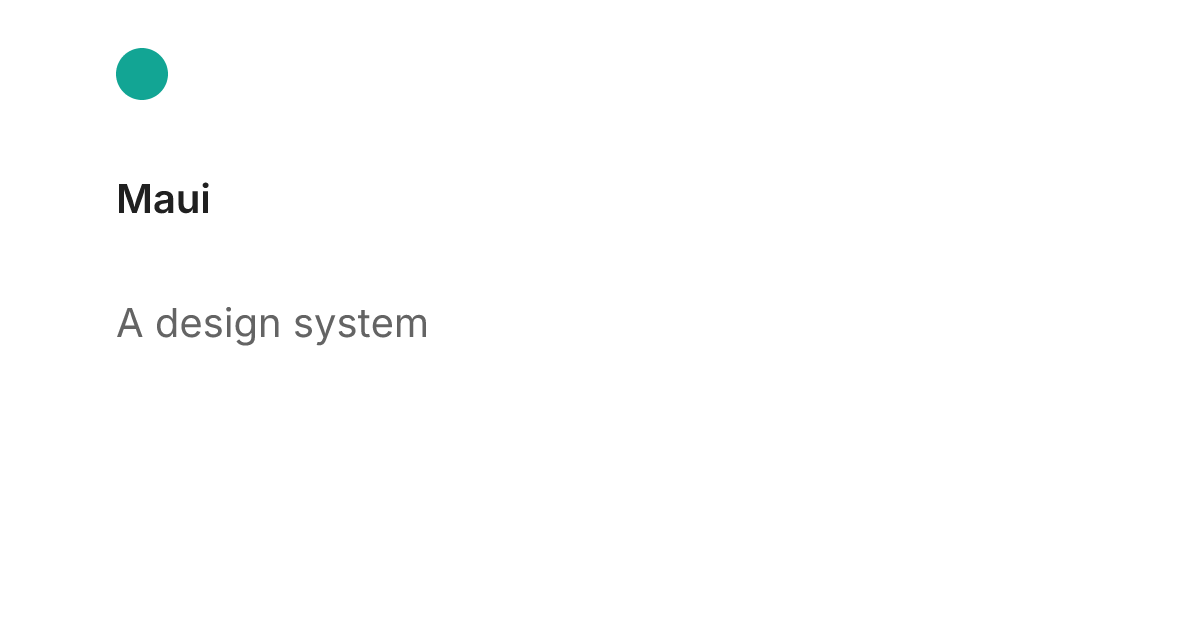
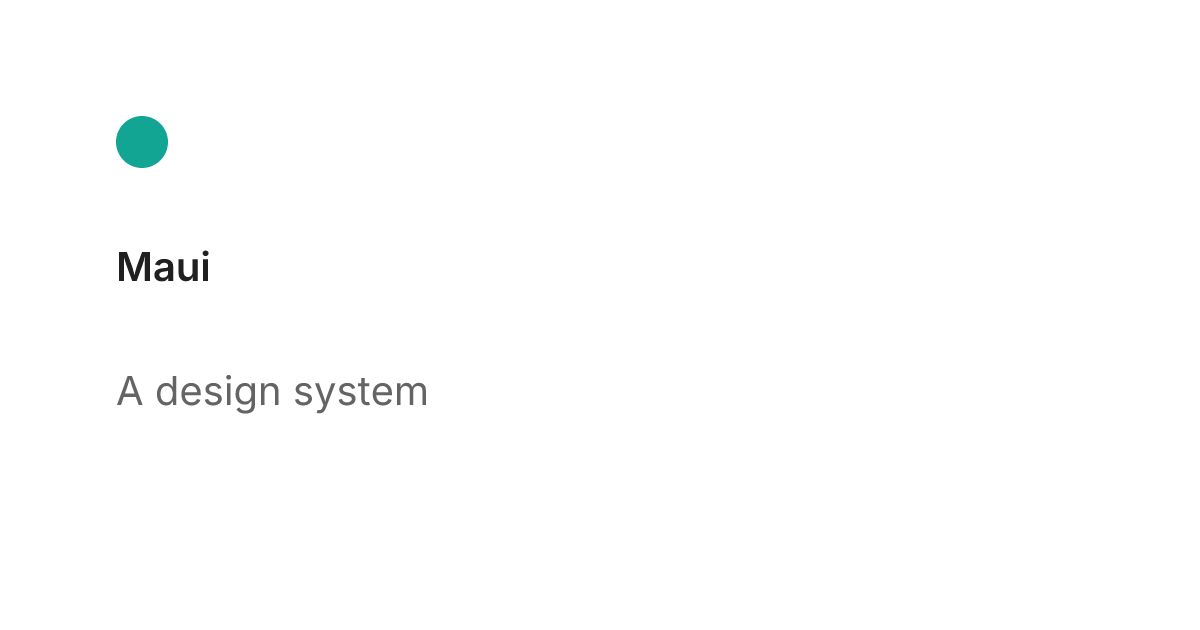
Set OG padding Y to 116

diff --git a/src/public/og.html b/src/public/og.html
@@ -242,9 +242,9 @@
 
 				<label>
 					<span class="row"
-						>Padding Y <output id="out-paddingY">48</output></span
+						>Padding Y <output id="out-paddingY">116</output></span
 					>
-					<input id="paddingY" type="range" min="24" max="160" step="4" value="48" />
+					<input id="paddingY" type="range" min="24" max="160" step="4" value="116" />
 				</label>
 
 				<label>
@@ -341,7 +341,7 @@
 
 			const defaults = {
 				theme: "light",
-				paddingY: 48,
+				paddingY: 116,
 				paddingX: 116,
 				gap: 72,
 				circle: 52,
